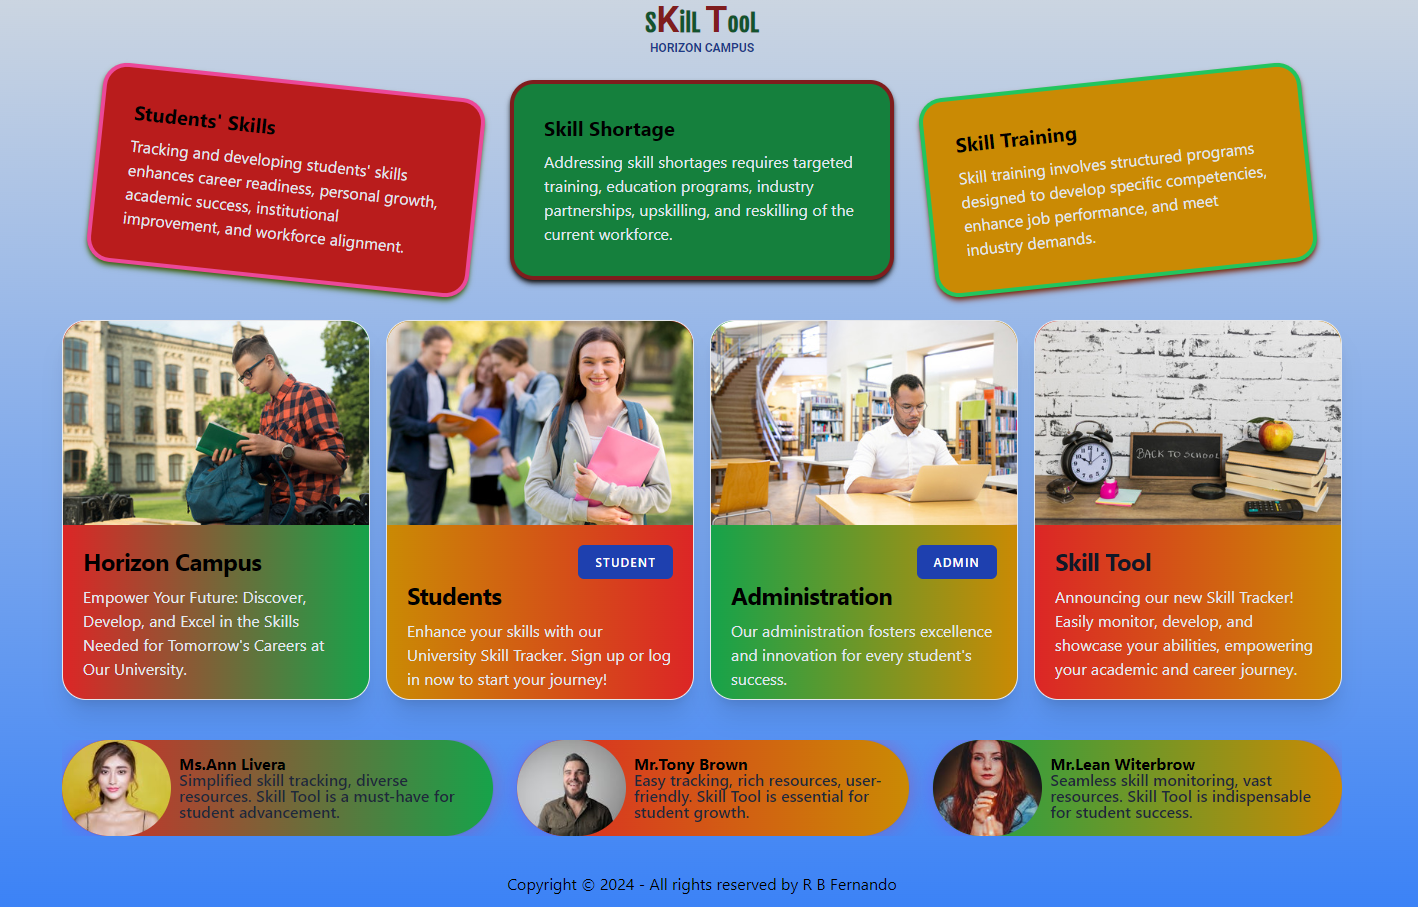
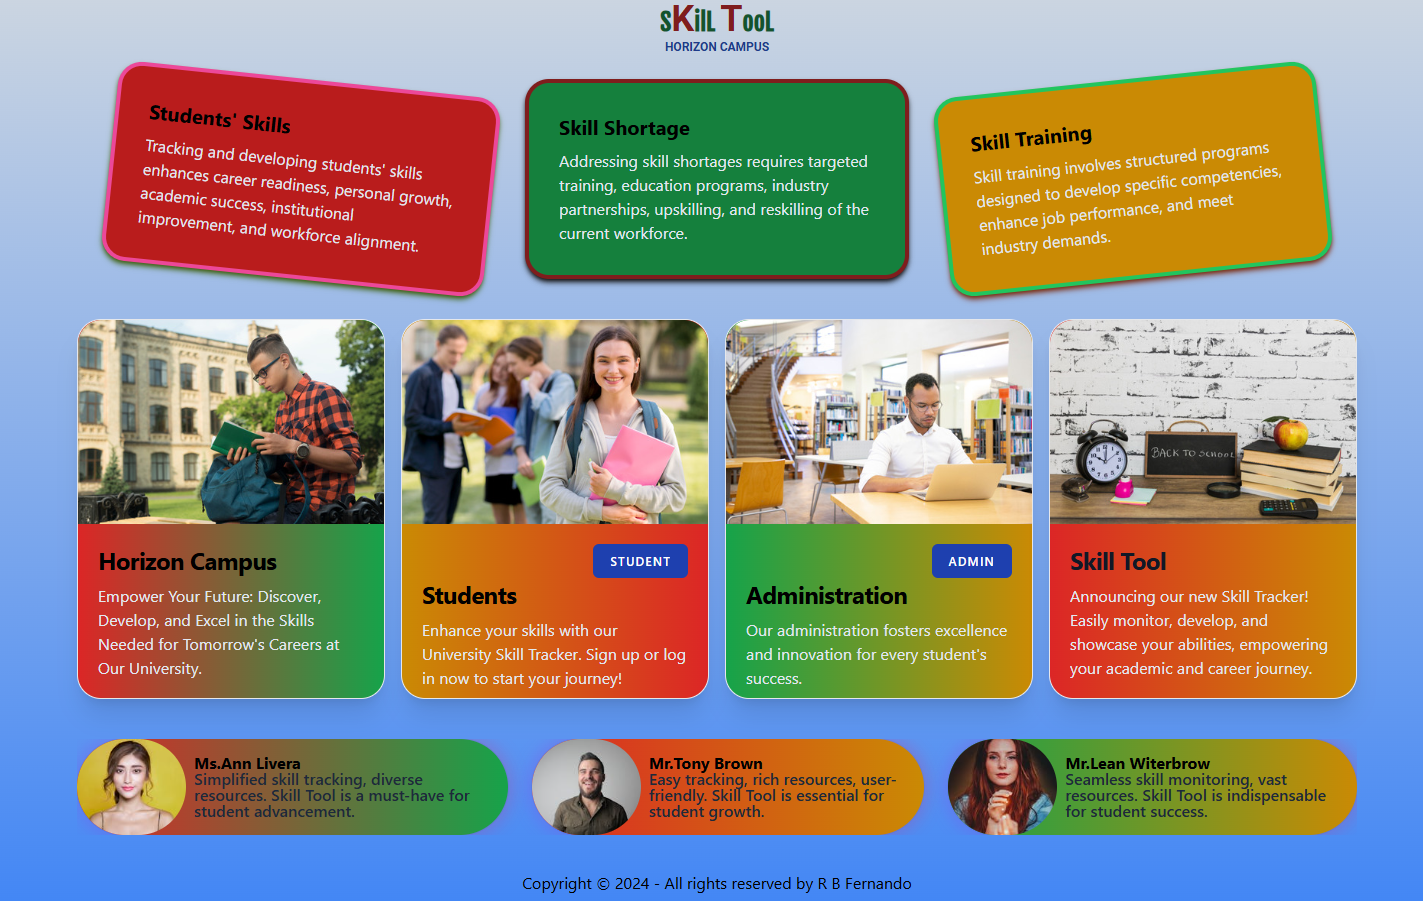
Add employee record php app and make some padding adjustment to the cards

diff --git a/index.html b/index.html
@@ -4,7 +4,7 @@
 <head>
     <meta charset="UTF-8">
     <meta name="viewport" content="width=device-width, initial-scale=1.0">
-    <link rel="stylesheet" href="css/style.css">
+    <link rel="stylesheet" href="/css/style.css">
     <title>Rukman | Projects</title>
 </head>
 
@@ -24,13 +24,12 @@
             <img src="images/instituteSkillTool.png" alt="">
             <div class="card-content">
                 <h3>Institute Skill Tool</h3>
-                <p>This is a Laravel app which helps students from various educational institutes track their skills in
-                    a study program.
-                    Each institute manages its students separately. Students can log in to check their skills, search
-                    for matching jobs, see how many skills match a job description, and generate a perfect CV for a
-                    maching job.
+                <p>A Laravel app for students to track skills in study programs across different institutes. Each
+                    institute manages its students separately. Students can search for jobs, match skills to job
+                    descriptions, and generate CVs.
                 </p>
-                <a href="http://instituteskilltool.rukman.buzz" class="btn" style="margin-top: 55px;">Check it
+                <a href="http://instituteskilltool.rukman.buzz" class="btn"
+                    style="margin-top: 55px; margin-bottom: 10px;">Check it
                     out...</a>
             </div>
         </div>
@@ -38,38 +37,42 @@
             <img src="images/studentSkillTool.png" alt="">
             <div class="card-content">
                 <h3>Student Skill Tool</h3>
-                <p>This is a Laravel app which helps students in a single educational institute track their skills.
-                    Students can register,
-                    select their academic programs, modules, practicals, and skills. They can check if certain skills
-                    have already been practiced. The app highlights all the practiced skills in a job description and
-                    provides additional information for each program. Students can generate a job-compatible CV with
-                    this app.</p>
-                <a href="http://skilltrackingtool.rukman.buzz/" class="btn">Check it out...</a>
+                <p>A Laravel app for students in a single institute to track their skills across academic programs,
+                    modules, and practicals. They can mark practiced skills, which are then highlighted in job
+                    descriptions. The app also offers program-specific details and helps generate job-ready CVs.</p>
+                <a href="http://skilltrackingtool.rukman.buzz/" class="btn" style="margin-bottom: 10px;">Check it
+                    out...</a>
             </div>
         </div>
         <div class="card">
             <img src="images/image-slide.png" alt="">
             <div class="card-content">
-                <h3>Image Slide</h3>
+                <h3>Student Skill Tool</h3>
                 <p>This page, developed using HTML, CSS, and JavaScript, displays full-size images while moving a stack
                     of smaller images when you click the left and right arrow buttons.</p>
-                <a href="http://image-slide.rukman.buzz/" class="btn" style="margin-top: 118px;">Check it out...</a>
+                <a href="http://skilltrackingtool.rukman.buzz/" class="btn"
+                    style="margin-top: 72px; margin-bottom: 10px;">Check it
+                    out...</a>
             </div>
         </div>
+
         <div class="card">
             <img src="images/landing-page.png" alt="">
             <div class="card-content">
                 <h3>Landing Page</h3>
                 <p>This page, developed using HTML and CSS, is designed to serve as a landing page for a website.</p>
-                <a href="http://landing-page.rukman.buzz" class="btn" style="margin-top: 160px;">Check it out...</a>
+                <a href="http://landing-page.rukman.buzz" class="btn"
+                    style="margin-top: 91px; margin-bottom: 10px;">Check it out...</a>
             </div>
         </div>
         <div class="card">
             <img src="images/employe-record-system.png" alt="">
             <div class="card-content">
-                <h3>Landing Page</h3>
-                <p>This page, developed using HTML and CSS, is designed to serve as a landing page for a website.</p>
-                <a href="http://employee-system.rukman.buzz" class="btn" style="margin-top: 160px;">Check it out...</a>
+                <h3>Employee CRUD</h3>
+                <p>A PHP system developed to demonstrate the CRUD as well as file read and write operations. The user
+                    interface is designed using the Bootstrap-5 CDN. This </p>
+                <a href="http://employee-system.rukman.buzz" class="btn"
+                    style="margin-top: 70px;margin-bottom: 10px;">Check it out...</a>
             </div>
         </div>
     </div>

diff --git a/css/style.css b/css/style.css
@@ -50,16 +50,20 @@ body {
 
 .card img {
     width:100%;
-    height: auto;
+    height: 200px;
 }
 
 .card-content{
-    padding:16px;
+    /* padding:2px; */
+    padding-right: 6px;
+    padding-left: 6px;
+    
 }
 
 .card-content h3{
     font-size: 28px;
     margin-bottom: 8px;
+    text-align: center;
 }
 
 .card-content p{
